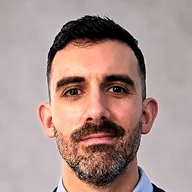
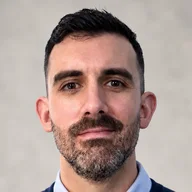
Retours mobile : illustration du hero au-dessus de la vague, commerce et épingle qui flottent comme la fiche (rythmes différents, ombre au sol qui se resserre) ; séparateurs sans rognage de la lueur, icône de parcours à la place du losange (déjà dans la bande), nouveau séparateur avant À propos ; À 

diff --git a/src/templates/index.html b/src/templates/index.html
@@ -129,11 +129,12 @@
     </div>
 </section>
 
-{# Séparateur entre les Exemples et le Déroulement : losange laiton, comme ceux de la bande. #}
+{% comment %}Séparateur entre les Exemples et le Déroulement : un parcours en étapes (pas un losange,
+déjà répété dans la bande juste au-dessus). Chaque séparateur a sa propre icône.{% endcomment %}
 <div class="section-divider" aria-hidden="true">
     <div class="divider-icon">
         <svg xmlns="http://www.w3.org/2000/svg" viewBox="0 0 24 24" focusable="false">
-            <path d="M12 3.5 20.5 12 12 20.5 3.5 12Z"></path>
+            <path d="M23 8c0 1.1-.9 2-2 2-.18 0-.35-.02-.51-.07l-3.56 3.55c.05.16.07.34.07.52 0 1.1-.9 2-2 2s-2-.9-2-2c0-.18.02-.36.07-.52l-2.55-2.55c-.16.05-.34.07-.52.07s-.36-.02-.52-.07l-4.55 4.56c.05.16.07.33.07.51 0 1.1-.9 2-2 2s-2-.9-2-2 .9-2 2-2c.18 0 .35.02.51.07l4.56-4.55C8.02 9.36 8 9.18 8 9c0-1.1.9-2 2-2s2 .9 2 2c0 .18-.02.36-.07.52l2.55 2.55c.16-.05.34-.07.52-.07s.36.02.52.07l3.55-3.56C19.02 8.35 19 8.18 19 8c0-1.1.9-2 2-2s2 .9 2 2z"></path>
         </svg>
     </div>
 </div>
@@ -162,8 +163,20 @@
 </section>
 {% endif %}
 
+{# Séparateur entre le Blog (ou le Déroulement) et À propos : on passe à la personne. #}
+<div class="section-divider" aria-hidden="true">
+    <div class="divider-icon">
+        <svg xmlns="http://www.w3.org/2000/svg" viewBox="0 0 24 24" focusable="false">
+            <path d="M12 12c2.21 0 4-1.79 4-4s-1.79-4-4-4-4 1.79-4 4 1.79 4 4 4zm0 2c-2.67 0-8 1.34-8 4v2h16v-2c0-2.66-5.33-4-8-4z"></path>
+        </svg>
+    </div>
+</div>
+
 <section class="about" id="a-propos" aria-labelledby="about-title">
+    {% comment %}Le titre est un enfant direct de la grille : à côté de la photo sur ordinateur,
+    au-dessus d'elle sur mobile (_about.css, grid-template-areas).{% endcomment %}
     <div class="about__layout">
+        <h2 class="about__statement" id="about-title">Bonjour, je suis Killian.</h2>
         <aside class="about__aside">
             <figure class="about__portrait">
                 {% comment %}Vraie photo, sous /static/ressources/portrait/ : interdit dans robots.txt (hors de
@@ -189,8 +202,7 @@
             </ul>
         </aside>
         <div class="about__body">
-            <h2 class="about__statement" id="about-title">L'agence, c'est moi.</h2>
-            <p class="about__lead">Je m'appelle Killian. killianp-dev est une agence de conseil et d'expertise informatique, spécialisée dans le référencement naturel (SEO). Je regarde comment vos clients vous cherchent, je choisis les solutions adaptées et je les mets en œuvre, à commencer par un site rapide, bien structuré, qui donne envie de vous contacter.</p>
+            <p class="about__lead">Avec killianp-dev, je fais du conseil et de l'expertise informatique, avec une spécialité : le référencement naturel (SEO). Je regarde comment vos clients vous cherchent, je choisis les solutions adaptées et je les mets en œuvre, à commencer par un site rapide, bien structuré, qui donne envie de vous contacter.</p>
             <p>Rien à administrer, rien à mettre à jour de votre côté. Les textes partent de vos mots et de ceux que tapent vos clients. Je les structure pour que Google comprenne ce que vous faites et où, et pour qu'un client qui ne vous connaît pas comprenne en une minute pourquoi vous choisir.</p>
             <p>On commence par un exemple de votre métier. Vous voyez les pages avant de décider. Rien n'est mis en ligne que vous n'ayez pas lu. Si une phrase ne vous ressemble pas, on la reprend.</p>
             <p>Vous m'écrivez, je réponds, et c'est moi qui mets en œuvre ce qu'on a décidé. Pas d'intermédiaire, pas de commercial : la personne qui vous conseille est celle qui code votre site.</p>

diff --git a/src/static/css/sections/_hero.css b/src/static/css/sections/_hero.css
@@ -114,6 +114,53 @@
   50% { transform: translateY(-8px); }
 }
 
+/* Effet « antigravité » : le commerce et l'épingle flottent aussi, chacun à son rythme
+   (durées différentes de la fiche, jamais en phase) ; leur ombre au sol se resserre et
+   pâlit quand ils montent. */
+.hero-art__shop,
+.hero-art__ground,
+.hero-art__pin-body,
+.hero-art__pin-shadow {
+  transform-box: fill-box;
+  transform-origin: center;
+}
+
+.hero-art__shop {
+  animation: heroFloatShop 9s ease-in-out infinite;
+}
+
+.hero-art__ground {
+  animation: heroGround 9s ease-in-out infinite;
+}
+
+.hero-art__pin-body {
+  animation: heroFloatPin 5.5s ease-in-out 0.6s infinite;
+}
+
+.hero-art__pin-shadow {
+  animation: heroPinShadow 5.5s ease-in-out 0.6s infinite;
+}
+
+@keyframes heroFloatShop {
+  0%, 100% { transform: translateY(0); }
+  50% { transform: translateY(-6px); }
+}
+
+@keyframes heroGround {
+  0%, 100% { transform: scale(1); opacity: 1; }
+  50% { transform: scale(0.94); opacity: 0.75; }
+}
+
+@keyframes heroFloatPin {
+  0%, 100% { transform: translateY(0); }
+  50% { transform: translateY(-11px); }
+}
+
+@keyframes heroPinShadow {
+  0%, 100% { transform: scale(1); opacity: 0.28; }
+  50% { transform: scale(0.68); opacity: 0.12; }
+}
+
 /* ---------- Vague ---------- */
 
 .hero__waves {
@@ -341,12 +388,13 @@
     align-items: flex-start;
   }
 
-  /* Une seule composition : titre, bouton, puis l'illustration qui descend jusqu'à la vague. */
+  /* Une seule composition : titre, bouton, puis l'illustration, au-dessus de la vague. */
   .hero__inner {
     grid-template-columns: minmax(0, 1fr);
     gap: 2.5rem;
     padding-top: calc(var(--navbar-height) + 2.75rem);
-    padding-bottom: calc(var(--hero-wave-h) * 0.4);
+    /* L'illustration s'arrête au-dessus de la vague, avec de l'air. */
+    padding-bottom: calc(var(--hero-wave-h) + 1.5rem);
   }
 
   .hero__art {
@@ -374,6 +422,10 @@
   .hero__overlay > *,
   .hero__art,
   .hero-art__card,
+  .hero-art__shop,
+  .hero-art__ground,
+  .hero-art__pin-body,
+  .hero-art__pin-shadow,
   .hero__wave {
     animation: none;
   }

diff --git a/src/static/css/sections/_about.css b/src/static/css/sections/_about.css
@@ -12,13 +12,23 @@
   scroll-margin-top: calc(var(--navbar-height) + 0.75rem);
 }
 
+/* Ordinateur : la photo à gauche sur toute la hauteur, le titre puis le texte à droite.
+   Mobile (760 px) : le titre, la photo, puis le texte. */
 .about__layout {
   display: grid;
   grid-template-columns: minmax(260px, 360px) minmax(0, 1fr);
-  gap: 2rem 4.5rem;
+  grid-template-areas:
+    "aside title"
+    "aside body";
+  grid-template-rows: auto 1fr;
+  gap: 0 4.5rem;
   align-items: start;
   text-align: left;
 }
+
+.about__statement { grid-area: title; }
+.about__aside { grid-area: aside; }
+.about__body { grid-area: body; }
 
 /* ---------- Colonne portrait ---------- */
 
@@ -339,7 +349,7 @@ html[data-theme="dark"] .about__panel li::before {
 
 @media (max-width: 960px) {
   .about__layout {
-    gap: 2rem 3rem;
+    column-gap: 3rem;
   }
 
   .about__panels {
@@ -350,6 +360,16 @@ html[data-theme="dark"] .about__panel li::before {
 @media (max-width: 760px) {
   .about__layout {
     grid-template-columns: minmax(0, 1fr);
+    grid-template-areas:
+      "title"
+      "aside"
+      "body";
+    grid-template-rows: none;
+    row-gap: 2rem;
+  }
+
+  .about__statement {
+    margin-bottom: 0;
   }
 
   .about__aside {
@@ -371,8 +391,15 @@ html[data-theme="dark"] .about__panel li::before {
     grid-template-columns: minmax(0, 1fr);
   }
 
+  /* Photo et vignettes centrées sous le titre. */
   .about__portrait {
+    width: 100%;
     max-width: 300px;
+    margin-inline: auto;
+  }
+
+  .about__stack {
+    justify-content: center;
   }
 
   .about__panel {

diff --git a/src/templates/partials/hero_illustration.html b/src/templates/partials/hero_illustration.html
@@ -30,8 +30,8 @@ Décorative (le conteneur porte aria-hidden) ; couleurs fixes, le hero est sombr
         </symbol>
     </defs>
 
-    <!-- Ombre au sol -->
-    <ellipse cx="250" cy="430" rx="230" ry="26" fill="url(#art-ground)"/>
+    <!-- Ombre au sol : se resserre quand le commerce flotte (_hero.css) -->
+    <ellipse class="hero-art__ground" cx="250" cy="430" rx="230" ry="26" fill="url(#art-ground)"/>
 
     <!-- Bâtiment : toit, flanc, façade -->
     <g class="hero-art__shop">
@@ -81,10 +81,12 @@ Décorative (le conteneur porte aria-hidden) ; couleurs fixes, le hero est sombr
 
     <!-- Épingle de carte -->
     <g class="hero-art__pin">
-        <ellipse cx="118" cy="132" rx="16" ry="5" fill="#0c0c0e" opacity="0.28"/>
-        <path d="M118 128c-14-17-22-27-22-39a22 22 0 0 1 44 0c0 12-8 22-22 39Z" fill="#d9bd84"/>
-        <path d="M118 128c-14-17-22-27-22-39a22 22 0 0 1 22-22Z" fill="#b8955a"/>
-        <circle cx="118" cy="89" r="8" fill="#17181b"/>
+        <ellipse class="hero-art__pin-shadow" cx="118" cy="132" rx="16" ry="5" fill="#0c0c0e" opacity="0.28"/>
+        <g class="hero-art__pin-body">
+            <path d="M118 128c-14-17-22-27-22-39a22 22 0 0 1 44 0c0 12-8 22-22 39Z" fill="#d9bd84"/>
+            <path d="M118 128c-14-17-22-27-22-39a22 22 0 0 1 22-22Z" fill="#b8955a"/>
+            <circle cx="118" cy="89" r="8" fill="#17181b"/>
+        </g>
     </g>
 
     <!-- Fiche du commerce dans les résultats de recherche -->

diff --git a/src/static/css/components/_navbar.css b/src/static/css/components/_navbar.css
@@ -233,10 +233,10 @@ html[data-theme="dark"] .logo-dot {
   color: var(--color-accent-bright);
 }
 
+/* Le nom commercial seul, en capitales espacées, sous killianp-dev. */
 .logo-tagline {
   display: flex;
   align-items: center;
-  gap: 0.4rem;
   font-family: var(--font-sans);
   font-size: 0.6rem;
   font-weight: 600;
@@ -245,31 +245,7 @@ html[data-theme="dark"] .logo-dot {
   color: var(--nav-fg-muted);
 }
 
-.logo-tagline::before {
-  content: "";
-  width: 0.9rem;
-  height: 1px;
-  background: currentColor;
-  opacity: 0.6;
-  transition: width 0.45s var(--nav-ease);
-}
-
-.logo a:hover .logo-tagline::before {
-  width: 1.4rem;
-}
-
-/* Nom commercial : « par » en italique, puis Neuralab en capitales espacées,
-   traversé au survol par un reflet de la couleur d'accent. */
-.logo-tagline__by {
-  margin-right: -0.1rem;
-  font-family: var(--font-serif);
-  font-size: 0.82rem;
-  font-style: italic;
-  font-weight: 400;
-  letter-spacing: 0;
-  text-transform: none;
-}
-
+/* Neuralab, traversé au survol par un reflet de la couleur d'accent. */
 .logo-tagline__brand {
   --brand-shine: var(--color-accent);
   background: linear-gradient(100deg, var(--nav-fg-muted) 0 35%, var(--brand-shine) 50%, var(--nav-fg-muted) 65% 100%);
@@ -880,7 +856,6 @@ html[data-theme="dark"] .navbar-cta {
   .logo-mark,
   .logo-mark__arm,
   .logo-mark__dot,
-  .logo-tagline::before,
   .logo-tagline__brand,
   .theme-toggle,
   .hamburger,

diff --git a/src/static/css/sections/_pricing.css b/src/static/css/sections/_pricing.css
@@ -27,6 +27,7 @@
 
 .pricing-card {
   position: relative;
+  container-type: inline-size;
   display: flex;
   flex-direction: column;
   padding: 2.1rem 1.9rem 2rem;
@@ -66,6 +67,21 @@ html[data-theme="dark"] .pricing-card__badge--promo {
 
 html[data-theme="dark"] .pricing-card__badge {
   color: var(--color-accent-bright);
+}
+
+/* Carte étroite (mobile, colonnes serrées) : la pastille (~290 px) passerait sur le titre (~190 px).
+   Elle revient dans le flux, au-dessus de lui, à la largeur de son texte. */
+@container (max-width: 520px) {
+  .pricing-card__badge {
+    position: static;
+    align-self: flex-start;
+    margin-bottom: 1.1rem;
+    font-size: 0.76rem;
+    line-height: 1.35;
+    /* Sur deux lignes, une pilule ronde devient un ovale : coins plus doux. */
+    border-radius: 0.85rem;
+    text-wrap: balance;
+  }
 }
 
 .pricing-card__head {

diff --git a/src/templates/base.html b/src/templates/base.html
@@ -90,7 +90,7 @@
                 </span>
                 <span class="logo-text">
                     <span class="logo-name">killianp-<span class="logo-dot">dev</span></span>
-                    <span class="logo-tagline"><span class="logo-tagline__by">par</span><span class="logo-tagline__brand">Neuralab</span></span>
+                    <span class="logo-tagline"><span class="logo-tagline__brand">Neuralab</span></span>
                 </span>
             </a>
         </div>

diff --git a/src/static/css/base/_global.css b/src/static/css/base/_global.css
@@ -86,7 +86,7 @@ body {
   display: flex;
   align-items: center;
   justify-content: center;
-  overflow: hidden;
+  /* Pas d'overflow: hidden : il rognait la lueur de l'icône (lights.css), surtout sur mobile. */
   max-width: var(--content-max);
   margin: 1.5rem auto 2.5rem;
   padding: 0 var(--page-gutter);

diff --git a/src/config/tests.py b/src/config/tests.py
@@ -175,6 +175,13 @@ class SeoTests(TestCase):
         libelles = re.findall(r'class="nav-links__label">([^<]+)<', menu)
         self.assertEqual(libelles, ["Accueil", "Exemples", "Blog", "À propos", "Formule"])
 
+    def test_pas_de_commentaire_de_gabarit_affiche(self):
+        # Un {# … #} sur plusieurs lignes n'est pas un commentaire pour Django : il s'afficherait.
+        BlogPost.objects.create(title="Article", published=True, category=BlogPost.COMMERCE)
+        html = self.client.get(reverse("index")).content.decode()
+        self.assertNotIn("{#", html)
+        self.assertNotIn("#}", html)
+
     def test_ordre_de_la_section_exemples(self):
         exemples = self.client.get(reverse("index")).context["exemples"]
         ordre = [projet.namespace for projet in exemples]
